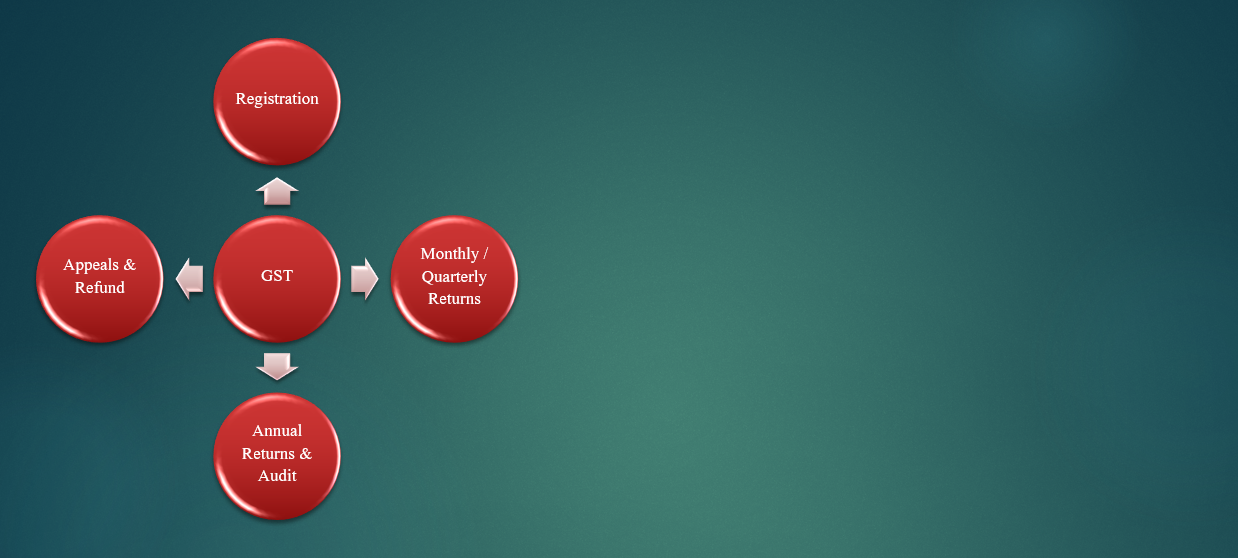
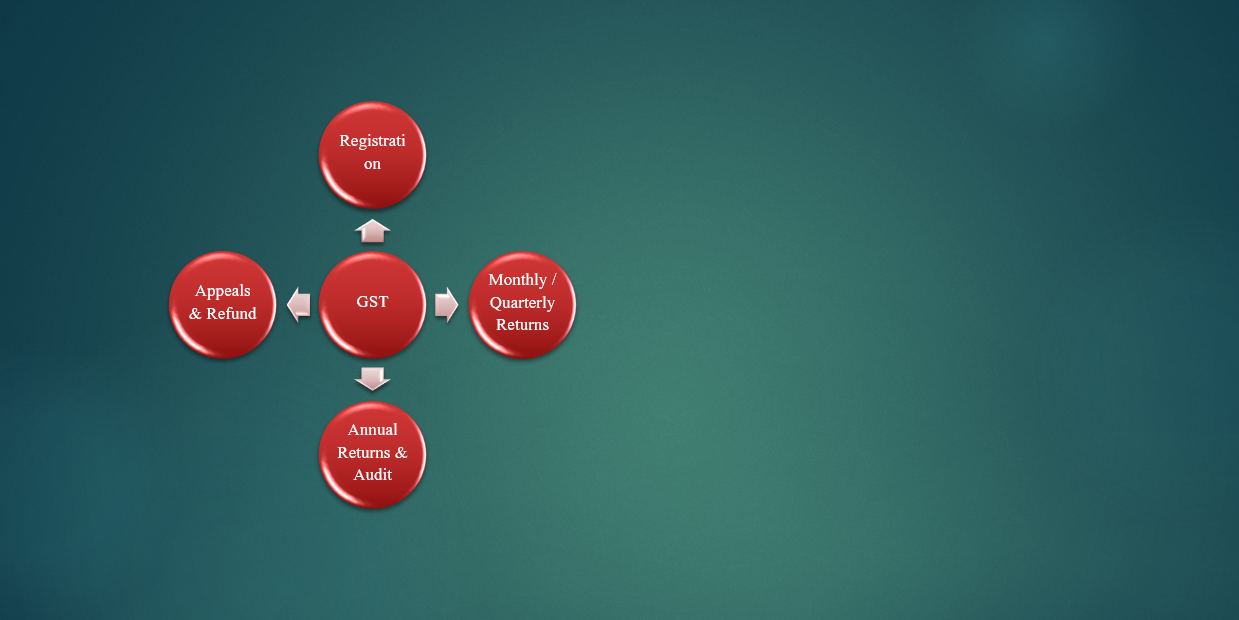
navigation & index slider changes

Changed region(s): [[0.0307, 0.0609, 0.4911, 0.9444]]

diff --git a/css/slit-custom.css b/css/slit-custom.css
@@ -13,7 +13,7 @@
 	width: 80%;
 	max-width: 1140px;
 	color: #fff;
-	margin-left: 35%;
+	margin-left: 40%;
 	position: relative;
 	z-index: 100;
 }
